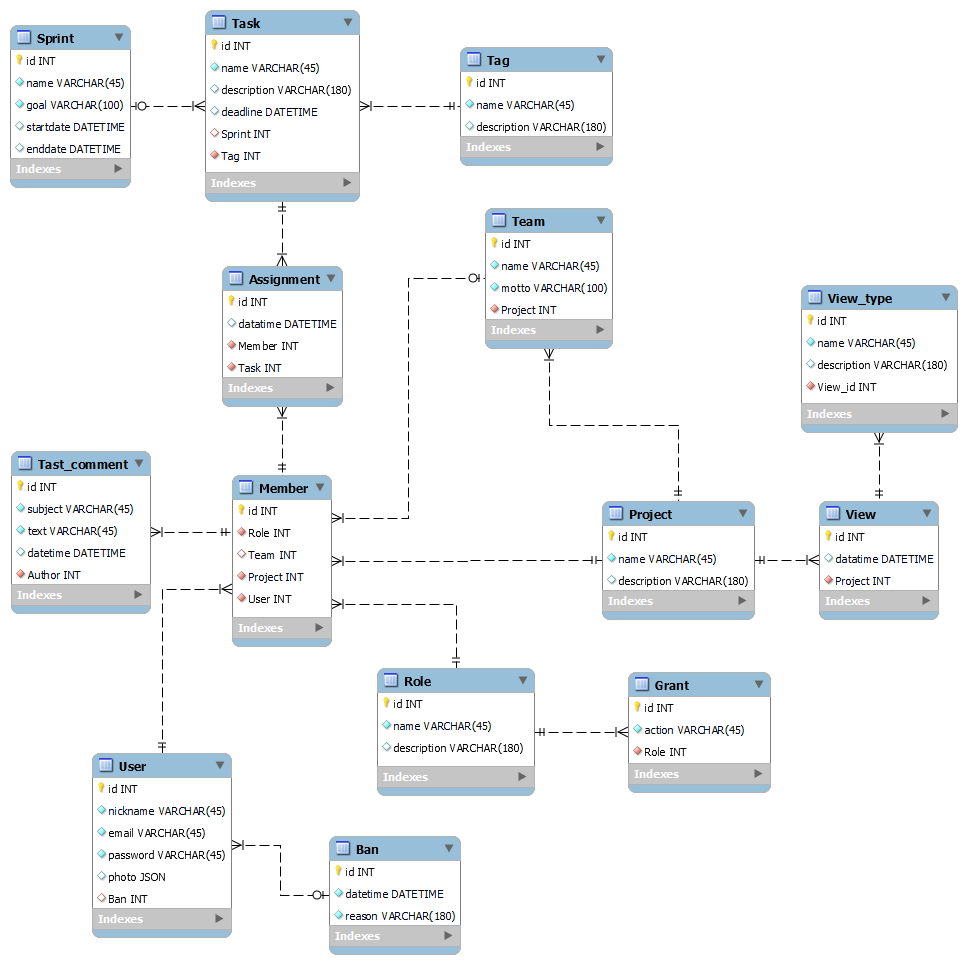
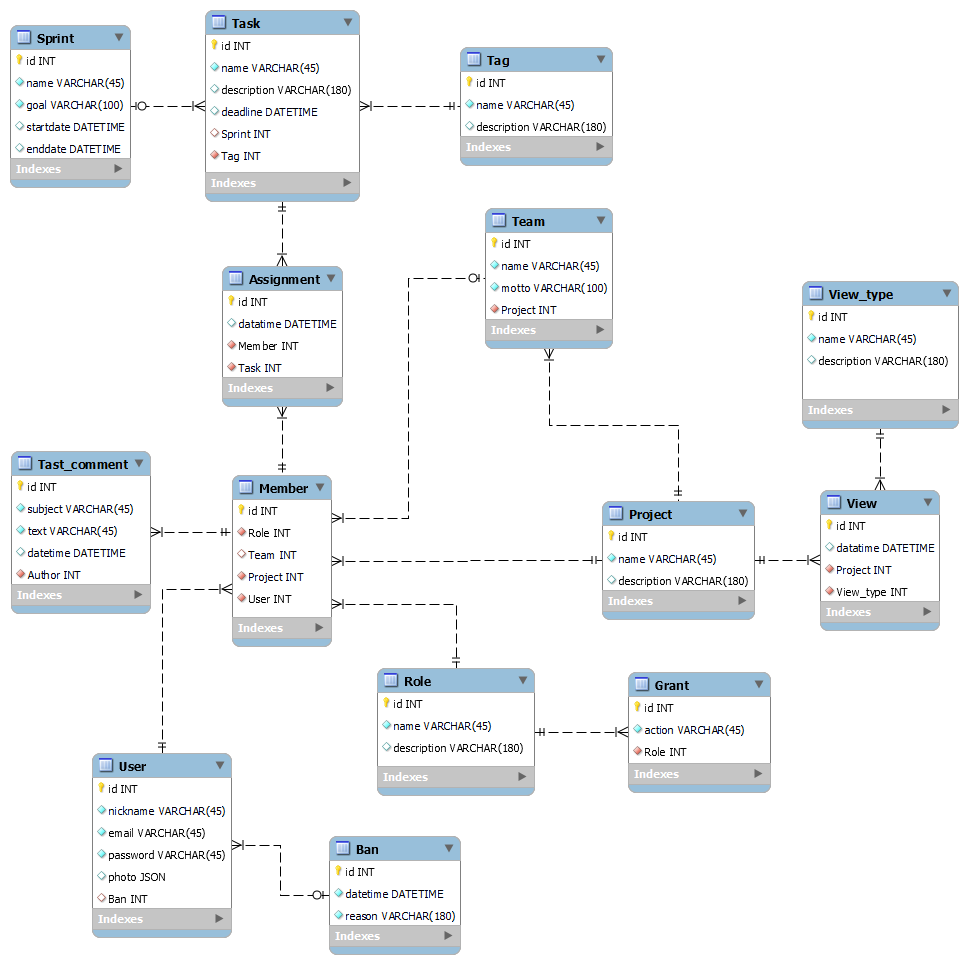
Changed one foreign key

diff --git a/docs/software/README.md b/docs/software/README.md
@@ -6,7 +6,7 @@
 
 ```
 -- MySQL Script generated by MySQL Workbench
--- Mon May  8 14:47:36 2023
+-- Fri May 12 18:14:59 2023
 -- Model: New Model    Version: 1.0
 -- MySQL Workbench Forward Engineering
 
@@ -268,25 +268,6 @@ ENGINE = InnoDB;
 
 
 -- -----------------------------------------------------
--- Table `JustChill`.`View`
--- -----------------------------------------------------
-DROP TABLE IF EXISTS `JustChill`.`View` ;
-
-CREATE TABLE IF NOT EXISTS `JustChill`.`View` (
-  `id` INT NOT NULL AUTO_INCREMENT,
-  `datatime` DATETIME NULL,
-  `Project` INT NOT NULL,
-  PRIMARY KEY (`id`),
-  INDEX `fk_View_Project1_idx` (`Project` ASC) VISIBLE,
-  CONSTRAINT `fk_View_Project1`
-    FOREIGN KEY (`Project`)
-    REFERENCES `JustChill`.`Project` (`id`)
-    ON DELETE NO ACTION
-    ON UPDATE NO ACTION)
-ENGINE = InnoDB;
-
-
--- -----------------------------------------------------
 -- Table `JustChill`.`View_type`
 -- -----------------------------------------------------
 DROP TABLE IF EXISTS `JustChill`.`View_type` ;
@@ -295,12 +276,31 @@ CREATE TABLE IF NOT EXISTS `JustChill`.`View_type` (
   `id` INT NOT NULL AUTO_INCREMENT,
   `name` VARCHAR(45) NOT NULL,
   `description` VARCHAR(180) NULL,
-  `View_id` INT NOT NULL,
+  PRIMARY KEY (`id`))
+ENGINE = InnoDB;
+
+
+-- -----------------------------------------------------
+-- Table `JustChill`.`View`
+-- -----------------------------------------------------
+DROP TABLE IF EXISTS `JustChill`.`View` ;
+
+CREATE TABLE IF NOT EXISTS `JustChill`.`View` (
+  `id` INT NOT NULL AUTO_INCREMENT,
+  `datatime` DATETIME NULL,
+  `Project` INT NOT NULL,
+  `View_type` INT NOT NULL,
   PRIMARY KEY (`id`),
-  INDEX `fk_View_type_View1_idx` (`View_id` ASC) VISIBLE,
-  CONSTRAINT `fk_View_type_View1`
-    FOREIGN KEY (`View_id`)
-    REFERENCES `JustChill`.`View` (`id`)
+  INDEX `fk_View_Project1_idx` (`Project` ASC) VISIBLE,
+  INDEX `fk_View_View_type1_idx` (`View_type` ASC) VISIBLE,
+  CONSTRAINT `fk_View_Project1`
+    FOREIGN KEY (`Project`)
+    REFERENCES `JustChill`.`Project` (`id`)
+    ON DELETE NO ACTION
+    ON UPDATE NO ACTION,
+  CONSTRAINT `fk_View_View_type1`
+    FOREIGN KEY (`View_type`)
+    REFERENCES `JustChill`.`View_type` (`id`)
     ON DELETE NO ACTION
     ON UPDATE NO ACTION)
 ENGINE = InnoDB;
@@ -357,11 +357,11 @@ COMMIT;
 -- -----------------------------------------------------
 START TRANSACTION;
 USE `JustChill`;
-INSERT INTO `JustChill`.`View_type` (`id`, `name`, `description`, `View_id`) VALUES (1, 'Dashboard', NULL, DEFAULT);
-INSERT INTO `JustChill`.`View_type` (`id`, `name`, `description`, `View_id`) VALUES (2, 'Backlog', NULL, DEFAULT);
-INSERT INTO `JustChill`.`View_type` (`id`, `name`, `description`, `View_id`) VALUES (3, 'Kanban', NULL, DEFAULT);
-INSERT INTO `JustChill`.`View_type` (`id`, `name`, `description`, `View_id`) VALUES (4, 'Scrum', NULL, DEFAULT);
-INSERT INTO `JustChill`.`View_type` (`id`, `name`, `description`, `View_id`) VALUES (5, 'Roadmap', NULL, DEFAULT);
+INSERT INTO `JustChill`.`View_type` (`id`, `name`, `description`) VALUES (1, 'Dashboard', NULL);
+INSERT INTO `JustChill`.`View_type` (`id`, `name`, `description`) VALUES (2, 'Backlog', NULL);
+INSERT INTO `JustChill`.`View_type` (`id`, `name`, `description`) VALUES (3, 'Kanban', NULL);
+INSERT INTO `JustChill`.`View_type` (`id`, `name`, `description`) VALUES (4, 'Scrum', NULL);
+INSERT INTO `JustChill`.`View_type` (`id`, `name`, `description`) VALUES (5, 'Roadmap', NULL);
 
 COMMIT;
 ```
